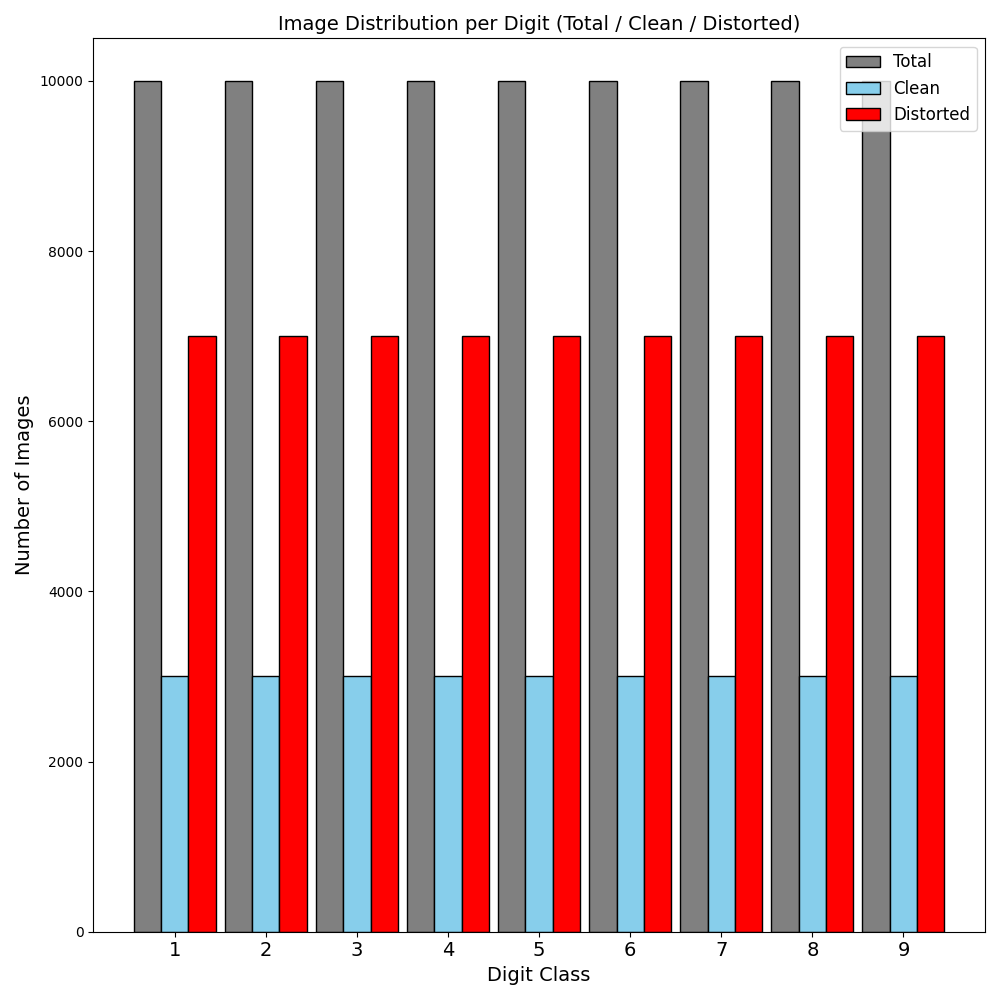
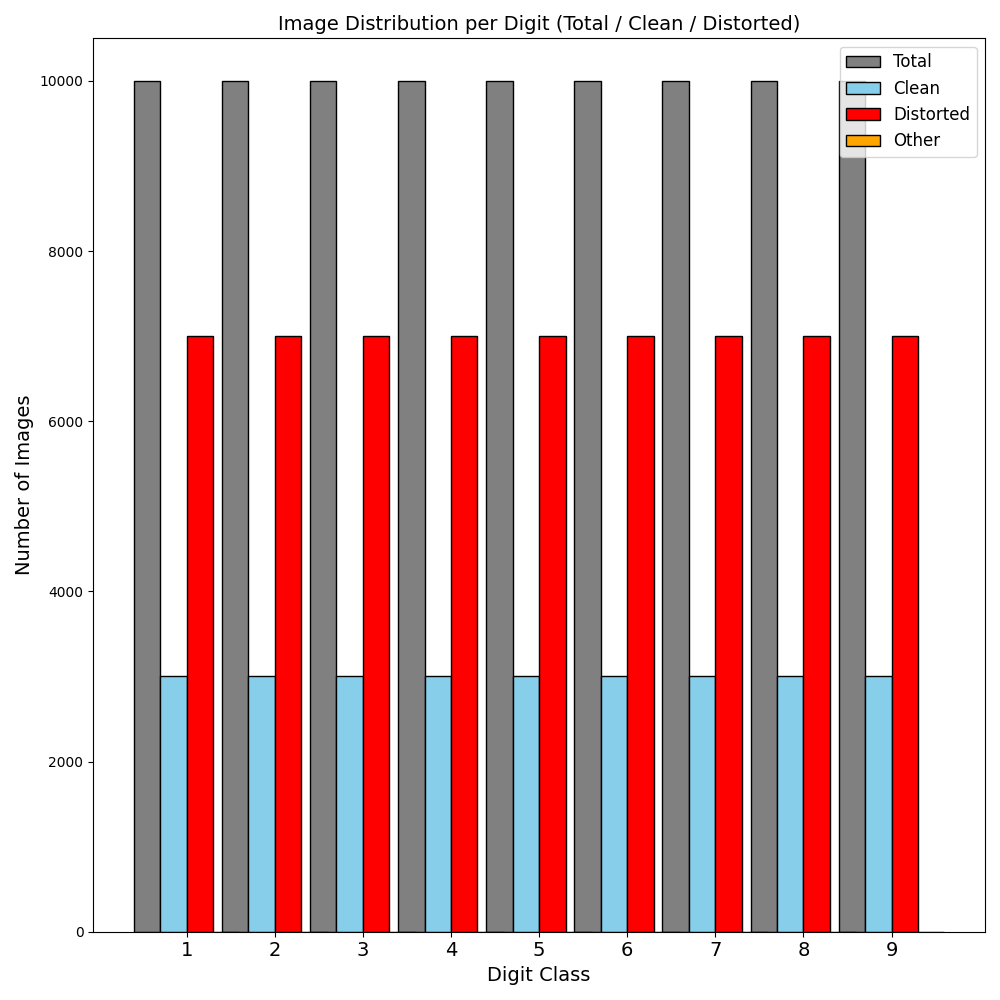
Update step 1 and table 1 to properly list 'other' as a valid option

diff --git a/dev_tools/data_utils/dataset_evaluation.py b/dev_tools/data_utils/dataset_evaluation.py
@@ -104,29 +104,34 @@ class DigitDatasetEvaluator:
 
             images = os.listdir(path)
             clean = len([img for img in images if "clean" in img])
-            distorted = len(images) - clean
+            distorted = len([img for img in images if "distorted" in img])
+            other = len(images) - clean - distorted
 
             summary[digit] = {
                 "total": len(images),
                 "clean": clean,
-                "distorted": distorted
+                "distorted": distorted,
+                "other": other
             }
 
         # 📊 Generate grouped bar chart
         digits = sorted(summary.keys(), key=int)
         totals = [summary[d]["total"] for d in digits]
-        cleans = [summary[d]["clean"] for d in digits]
-        distorteds = [summary[d]["distorted"] for d in digits]
+        clean = [summary[d]["clean"] for d in digits]
+        distorted = [summary[d]["distorted"] for d in digits]
+        other = [summary[d]["other"] for d in digits]
 
         x = range(len(digits))
         width = 0.3
 
         plt.figure(figsize=plot_params["figsize"])
-        plt.bar([i - width for i in x], totals, width=width, label="Total", color="gray",
+        plt.bar([i - 1.5 * width for i in x], totals, width=width, label="Total", color="gray",
                 edgecolor=plot_params["bar_edgecolor"])
-        plt.bar(x, cleans, width=width, label="Clean", color=plot_params["bar_color"],
+        plt.bar([i - 0.5 * width for i in x], clean, width=width, label="Clean", color=plot_params["bar_color"],
                 edgecolor=plot_params["bar_edgecolor"])
-        plt.bar([i + width for i in x], distorteds, width=width, label="Distorted", color="red",
+        plt.bar([i + 0.5 * width for i in x], distorted, width=width, label="Distorted", color="red",
+                edgecolor=plot_params["bar_edgecolor"])
+        plt.bar([i + 1.5 * width for i in x], other, width=width, label="Other", color="orange",
                 edgecolor=plot_params["bar_edgecolor"])
 
         plt.xlabel("Digit Class", fontsize=plot_params["font_size"])
@@ -312,7 +317,7 @@ class DigitDatasetEvaluator:
             plt.ylabel("Frequency", fontsize=plot_params["font_size"])
             plt.legend(fontsize=plot_params["font_size"])
 
-            output_path = os.path.join(self.output_dir, "pixel_histogram.png")
+            output_path = os.path.join(self.output_dir, "step_4_pixel_histogram.png")
             plt.tight_layout()
             plt.savefig(output_path)
             plt.close()
@@ -419,7 +424,7 @@ class DigitDatasetEvaluator:
             plt.title("Digit Centering Heatmap (all digits)", fontsize=plot_params["font_size"])
 
             # Save plot
-            output_path = os.path.join(self.output_dir, "centering_heatmap.png")
+            output_path = os.path.join(self.output_dir, "step_6_centering_heatmap.png")
             plt.savefig(output_path, bbox_inches="tight")
             plt.close()
 
@@ -534,7 +539,7 @@ class DigitDatasetEvaluator:
         self.log("\n🔍 [Step 9] Detecting partial digits (those touching the image frame)...")
 
         os.makedirs(self.output_dir, exist_ok=True)
-        save_path = os.path.join(self.output_dir, "partial_digits_grid.png")
+        save_path = os.path.join(self.output_dir, "step_9_partial_digits_grid.png")
         partials: List[str] = []
         partials_by_digit: Dict[str, List[str]] = defaultdict(list)
 
@@ -1025,10 +1030,12 @@ class DigitDatasetEvaluator:
             distorted_pct = 100 * distorted / total if total > 0 else 0
             other_pct = 100 * other / total if total > 0 else 0
 
-            # Ensure 1 decimal place for percentages
             summary_rows.append({
                 "Digit": digit,
-                "Total": f"{total:,}",  # Format total with thousands separator
+                "Total": f"{total:,}",
+                "Clean": f"{clean:,}",
+                "Distorted": f"{distorted:,}",
+                "Other": f"{other:,}",
                 "Clean %": f"{clean_pct:.1f}",
                 "Distorted %": f"{distorted_pct:.1f}",
                 "Other %": f"{other_pct:.1f}",
@@ -1041,12 +1048,19 @@ class DigitDatasetEvaluator:
             other_all += other
 
         # Totals row
+        total_clean_pct = 100 * clean_all / total_all if total_all > 0 else 0
+        total_distorted_pct = 100 * distorted_all / total_all if total_all > 0 else 0
+        total_other_pct = 100 * other_all / total_all if total_all > 0 else 0
+
         summary_rows.append({
             "Digit": "Total",
-            "Total": f"{total_all:,}",  # Format total with thousands separator
-            "Clean %": f"{100 * clean_all / total_all:.1f}" if total_all > 0 else "0.0",
-            "Distorted %": f"{100 * distorted_all / total_all:.1f}" if total_all > 0 else "0.0",
-            "Other %": f"{100 * other_all / total_all:.1f}" if total_all > 0 else "0.0",
+            "Total": f"{total_all:,}",
+            "Clean": f"{clean_all:,}",
+            "Distorted": f"{distorted_all:,}",
+            "Other": f"{other_all:,}",
+            "Clean %": f"{total_clean_pct:.1f}",
+            "Distorted %": f"{total_distorted_pct:.1f}",
+            "Other %": f"{total_other_pct:.1f}",
             "Image Size": image_size
         })
 
@@ -1057,10 +1071,10 @@ class DigitDatasetEvaluator:
         df.to_csv(csv_path, index=False)
 
         # Save image with enhanced formatting
-        fig, ax = plt.subplots(figsize=(8, 0.1 * len(df) + 1.5))  # Adjust height based on row count
+        fig, ax = plt.subplots(figsize=(10, 0.1 * len(df) + 1.5))  # Wider to fit new columns
         ax.axis("off")
 
-        # Add title above the table
+        # Add title
         fig.text(0.5, 0.98, "Table 1. Dataset Summary", ha="center", va="top",
                  fontsize=13, weight="bold", color="black")
 
@@ -1523,6 +1537,11 @@ class DigitDatasetEvaluator:
 if __name__ == "__main__":
     evaluator = DigitDatasetEvaluator(dataset_path="digit_dataset")
     # evaluator.run_full_evaluation()
-    sobel_data, orb_data = evaluator.step_11_local_feature_consistency(samples_per_digit=10000)
-    evaluator.generate_table_5_feature_consistency(sobel_data, orb_data)
+    # sobel_data, orb_data = evaluator.step_11_local_feature_consistency(samples_per_digit=10000)
+    # evaluator.generate_table_5_feature_consistency(sobel_data, orb_data)
 
+    # _, all_duplicates_by_digit = evaluator.step_10_detect_duplicate_images()
+    # evaluator.generate_table_3_duplicate_summary(all_duplicates_by_digit)
+    class_stats = evaluator.step_1_class_distribution()
+    image_size = evaluator.step_2_check_image_dimensions()
+    evaluator.generate_table_1_dataset_summary(class_stats, image_size)
